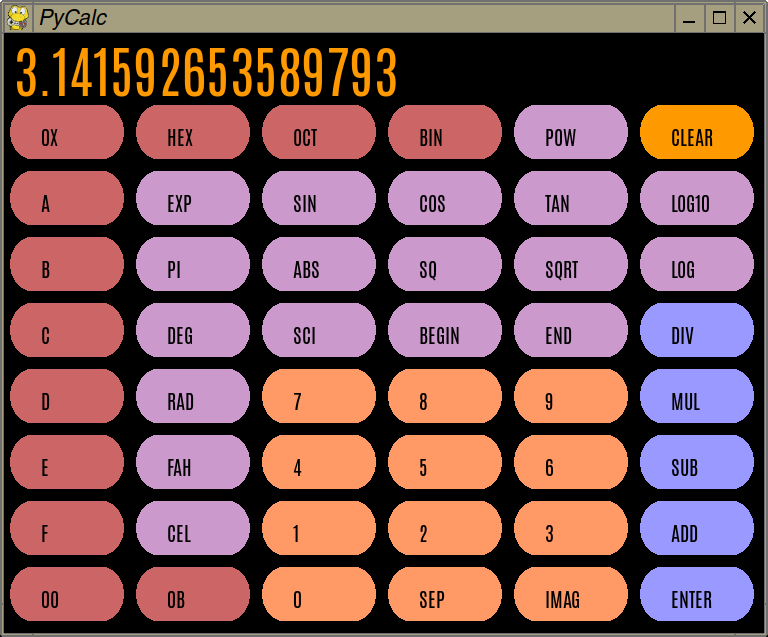
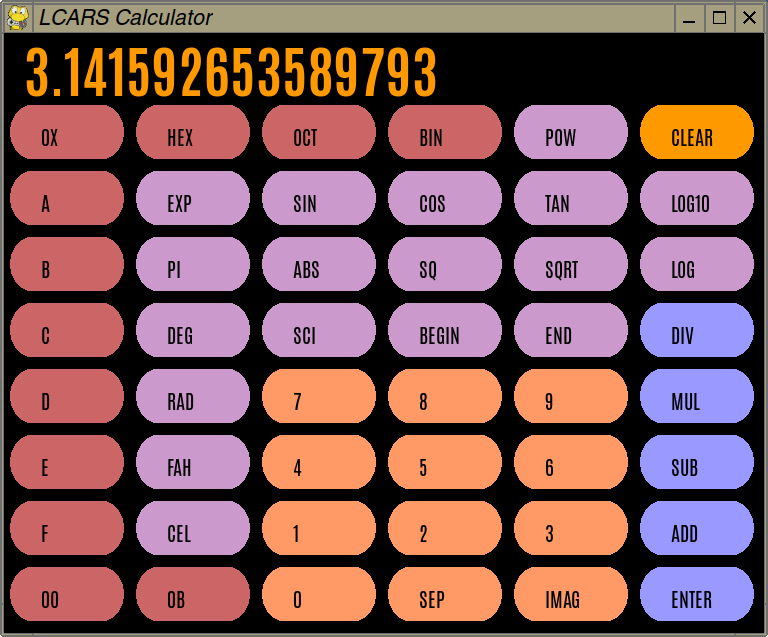
use bold font

Changed region(s): [[0.0, 0.0, 0.5938, 0.1491]]

diff --git a/pycalc_lcars.py b/pycalc_lcars.py
@@ -11,8 +11,9 @@ RES = 760,600           # initial window size
 HSIZE, VSIZE = 6, 9     # button grid dimension (top row is for display)
 MAXLEN = 100            # maximum digits
 
-# font name
-fn = "Antonio-Regular.ttf"
+# font names
+fn1 = "Antonio-Regular.ttf"
+fn2 = "Antonio-Bold.ttf"
 
 # sound files
 pygame.mixer.init()
@@ -127,8 +128,8 @@ class PyCalc:
         self.screen = pygame.display.set_mode(self.res, pygame.RESIZABLE)
         pygame.display.set_caption('LCARS Calculator')
         self.screen.fill(BACKGROUND)
-        self.font = pygame.font.Font(fn, size_button)
-        self.fontres = pygame.font.Font(fn, size_disp)
+        self.font = pygame.font.Font(fn1, size_button)
+        self.fontres = pygame.font.Font(fn2, size_disp)
         self.clock = pygame.time.Clock()
         self.inp = ""
 
